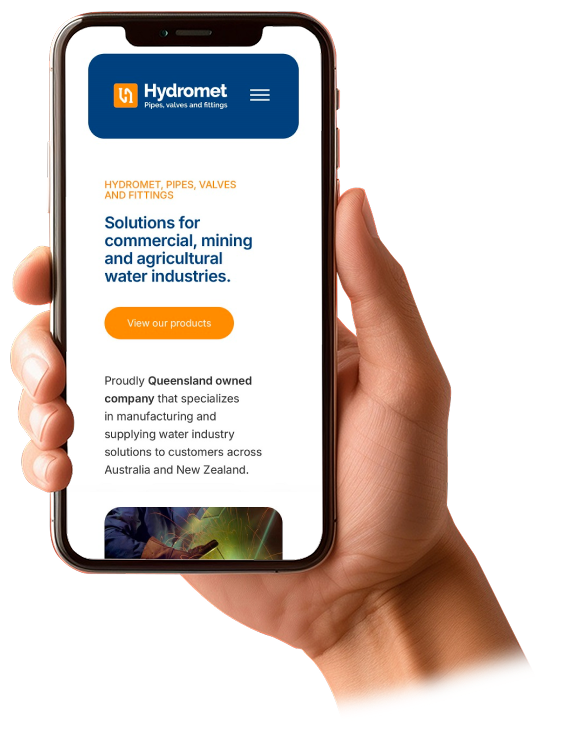
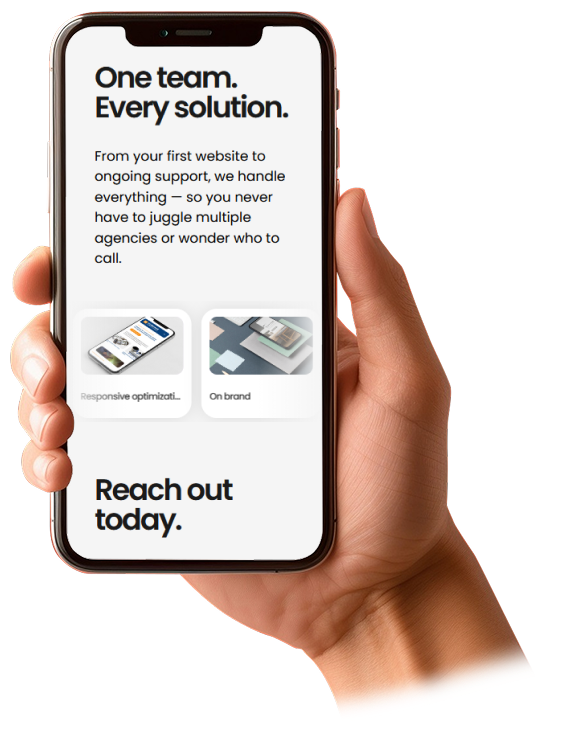
Updates

Changed region(s): [[0.1237, 0.4219, 0.5567, 0.7836], [0.1237, 0.0603, 0.5258, 0.3918]]

diff --git a/index.html b/index.html
@@ -49,8 +49,8 @@
         window.history.replaceState(null, "", finalPath);
       })();
     </script>
-    <script type="module" crossorigin src="/assets/index-CWYpzVCw.js"></script>
-    <link rel="stylesheet" crossorigin href="/assets/index-DQDPuU-o.css">
+    <script type="module" crossorigin src="/assets/index-iDpTRTmZ.js"></script>
+    <link rel="stylesheet" crossorigin href="/assets/index-3tq_7B_g.css">
   </head>
   <body>
     <div id="root"></div>

diff --git a/assets/index-3tq_7B_g.css b/assets/index-3tq_7B_g.css
@@ -1,0 +1,1 @@
+:root{--muted-mauve-grey:#6b6375;--near-black:#1a1a1a;--bg:#f5f5f5;--border:#e5e4e7;--code-bg:#f4f3ec;--lime-green:#d6fd70;--purple:#aa3bff;--purple-bg:#aa3bff1a;--purple-border:#aa3bff80;--social-bg:#f4f3ec80;--nav-width:160px;--btn-padding:14px 23px;--yellow-green:#9acd32;--base-white:#fff;--grey-200:#ececec;--grey-300:#c7c7c7;--grey-400:#585858;--grey-500:#474747;--grey-600:#363636;--grey-700:#2f2f2f;--grey-800:#1a1a1a;--btn-hover:#08060d;--shadow:#0000001a 0 10px 15px -3px, #0000000d 0 4px 6px -2px;--sitefont:"Poppins", "Segoe UI", Roboto, sans-serif;--sitewidth:1280px;--step--2:clamp(.56rem, .6076rem + -.0595vw, .6076rem);--step--1:clamp(.7rem, .7292rem + -.0365vw, .7292rem);--step-0:clamp(.875rem, .875rem + 0vw, .875rem);--step-1:clamp(1.05rem, 1.05rem + .0547vw, 1.0938rem);--step-2:clamp(1.26rem, 1.26rem + .134vw, 1.3672rem);--step-3:clamp(1.512rem, 1.512rem + .2462vw, 1.709rem);--step-4:clamp(1.8144rem, 1.8144rem + .4023vw, 2.1362rem);--step-5:clamp(2.1773rem, 2.1773rem + .6163vw, 2.6703rem);--step-6:clamp(2.6127rem, 2.6127rem + .9064vw, 3.3379rem);--step-7:clamp(3.1353rem, 3.1353rem + 1.2963vw, 4.1723rem);--step-8:clamp(3.7623rem, 3.7623rem + 1.8163vw, 5.2154rem);--step-9:clamp(4.5148rem, 4.5148rem + 2.5056vw, 6.5193rem);--azure-blue:#208dd2;--warm-peach:#ffae91;--blue-grey:#769ca9;--pale-orange:#ffa656;--golden-yellow:#dec63e;--hot-pink:#ff88c8}body{background-repeat:no-repeat;background-size:cover}#root{margin:20px;padding:20px;position:relative}#root .cover-bg{z-index:-1;border-radius:20px;width:100%;height:100%;max-height:880px;position:absolute;top:0;left:0}#root .app-main{width:100%;max-width:var(--sitewidth);margin-top:20px;margin-left:auto;margin-right:auto}.home-page .cover-bg{background-color:var(--azure-blue);background-image:url(/cover.jpg);background-position:50%;background-size:cover}.services-page .cover-bg,.logo-design-page .cover-bg,.photography-page .cover-bg{background-color:var(--warm-peach)}.projects-page .cover-bg{background-color:var(--blue-grey)}.about-page .cover-bg{background-color:var(--golden-yellow)}.pricing-page .cover-bg{background-color:var(--blue-grey)}.contact-page .cover-bg{background-color:var(--azure-blue)}html{-webkit-text-size-adjust:100%;-ms-text-size-adjust:100%;font-family:var(--sitefont);scrollbar-gutter:stable}body{font-size:var(--step-0);background:var(--bg);margin:0;padding:0;line-height:1.5}h1{font-size:var(--step-4);color:var(--near-black);letter-spacing:-2px;font-weight:600;line-height:1.5}h2{font-size:var(--step-3);color:var(--near-black);letter-spacing:-1px;font-weight:600;line-height:1.5}h3{font-size:var(--step-2);letter-spacing:-.5px;margin-top:20px;font-weight:600;line-height:1.5}h4{font-size:var(--step-1);margin-top:10px;font-weight:600;line-height:1.5}p{color:var(--near-black);letter-spacing:inherit;margin-top:0;margin-bottom:10px;line-height:1.6}h1.lg-heading{font-size:var(--step-7);line-height:.9}h1.med-heading{font-size:var(--step-5);line-height:1}button{font-family:var(--sitefont)}.mt0{margin-top:0}.mt10{margin-top:10px}.mt20{margin-top:20px}.mt30{margin-top:30px}.mt40{margin-top:40px}.mt50{margin-top:50px}.mt60{margin-top:60px}.mb0{margin-bottom:0}.mb10{margin-bottom:10px}.mb20{margin-bottom:20px}.mb30{margin-bottom:30px}.mb40{margin-bottom:40px}.mb50{margin-bottom:50px}.mb60{margin-bottom:60px}.pt0{padding-top:0}.pt10{padding-top:10px}.pt20{padding-top:20px}.pt30{padding-top:30px}.pt40{padding-top:40px}.pb0{padding-bottom:0}.pb10{padding-bottom:10px}.pb20{padding-bottom:20px}.pb30{padding-bottom:30px}.pb40{padding-bottom:40px}.fw400{font-weight:400}.displaynone{display:none!important}.opacity75{opacity:.75!important}.swiper-wrapper{transition-timing-function:linear!important}.btn{padding:var(--btn-padding);color:var(--base-white);background-color:var(--purple);text-align:center;border-radius:999px;text-decoration:none;transition:background-color .2s;display:inline-block}.btn:hover{background-color:var(--purple-border)}.hero-outer{background:#fff3;border:1px solid #ffffff4d;border-bottom:#0000;border-radius:38px 38px 0 0;width:fit-content;padding:20px}.hero-outer .hero-wrapper{border-radius:20px;max-width:900px;animation:1.2s hero-fade-in;display:block;position:relative;overflow:hidden}.hero-outer .hero-wrapper>img{width:100%;height:auto;display:block}.hero-outer .hero-wrapper canvas{image-rendering:auto;width:100%;height:100%;image-rendering:smooth;will-change:transform;backface-visibility:hidden;position:absolute;top:0;left:0;transform:translateZ(0)}.hero-outer .hero-wrapper .video-wrapper{object-fit:cover;position:absolute;overflow:hidden}.hero-outer .hero-wrapper .mix{mix-blend-mode:multiply;width:100%;height:auto;position:absolute;top:0;left:0}@keyframes hero-fade-in{0%{opacity:0}to{opacity:1}}.swiper{display:block;position:relative;overflow:hidden}.swiper-wrapper{width:100%;height:100%;transition:transform .3s;display:flex}.swiper-slide{flex-shrink:0;width:100%;height:100%}.swiper-wrapper-outer{box-sizing:border-box;background:#fff3;border:1px solid #ffffff4d;border-top:#0000;border-radius:0 0 30px 30px;margin-top:0;margin-bottom:30px;padding-bottom:20px}.swiper-wrapper-outer .swiper{width:100%;max-width:100vw}.swiper-wrapper-outer .swiper .swiper-wrapper .swiper-slide{border:2px solid #0000;border-radius:16px;position:relative}.swiper-wrapper-outer .swiper .swiper-wrapper .swiper-slide.active{border:2px solid var(--lime-green)}.swiper-wrapper-outer .swiper .swiper-wrapper .swiper-slide.active .badge{display:flex}.swiper-wrapper-outer .swiper .swiper-wrapper .swiper-slide .badge{z-index:10;border:2px solid var(--grey-800);border-radius:999px;width:18px;height:18px;display:none;position:absolute;top:4px;right:4px}.swiper-wrapper-outer .swiper .swiper-wrapper .swiper-slide .badge svg{width:100%;height:100%}.swiper-wrapper-outer .swiper .swiper-wrapper .swiper-slide .badge svg path{fill:var(--base-white)}.swiper-wrapper-outer .swiper .swiper-wrapper .swiper-slide .badge svg path:nth-child(2){fill:var(--grey-800)}.swiper-wrapper-outer .swiper .swiper-wrapper .swiper-slide .inner-slide{border-radius:14px;max-height:500px;position:relative;overflow:hidden}.swiper-wrapper-outer .swiper .swiper-wrapper .swiper-slide img{width:100%;height:auto;display:block}.swiper-wrapper-outer .swiper .swiper-wrapper .swiper-slide canvas{image-rendering:auto;width:100%;height:100%;image-rendering:smooth;will-change:transform;backface-visibility:hidden;position:absolute;top:0;left:0;transform:translateZ(0)}.swiper-wrapper-outer .swiper .swiper-wrapper .swiper-slide .video-wrapper{object-fit:cover;position:absolute;overflow:hidden}.swiper-wrapper-outer .swiper .swiper-wrapper .swiper-slide .video-wrapper .item-video-thumb{object-fit:cover;width:100%;height:100%;display:block}.swiper-wrapper-outer .swiper .swiper-wrapper .swiper-slide .video-wrapper .item-video{width:100%;height:100%}.swiper-wrapper-outer .swiper .swiper-wrapper .swiper-slide .mix{mix-blend-mode:multiply;width:100%;height:auto;position:absolute;top:0;left:0}.swiper-wrapper-outer .swiper .swiper-wrapper .swiper-slide:hover{cursor:pointer;border-color:var(--purple-border)}.swiper-wrapper-outer .swiper .swiper-button-next{border:2px solid var(--grey-800);background-color:var(--lime-green);border-radius:50%;width:48px;height:48px;display:none}.swiper-wrapper-outer .swiper .swiper-button-next.swiper-button-disabled{display:none}.swiper-wrapper-outer .swiper .swiper-button-next .swiper-navigation-icon{width:12px;height:12px}.swiper-wrapper-outer .swiper .swiper-button-next .swiper-navigation-icon path{stroke:var(--grey-800);stroke-width:2px}.swiper-wrapper-outer .swiper .swiper-button-next:hover{border-color:var(--lime-green);background-color:var(--grey-800)}.swiper-wrapper-outer .swiper .swiper-button-next:hover .swiper-navigation-icon path{stroke:var(--lime-green)}.swiper-wrapper-outer .swiper .swiper-button-prev{border:2px solid var(--grey-800);background-color:var(--lime-green);border-radius:50%;width:48px;height:48px;display:none}.swiper-wrapper-outer .swiper .swiper-button-prev.swiper-button-disabled{display:none}.swiper-wrapper-outer .swiper .swiper-button-prev .swiper-navigation-icon{width:12px;height:12px}.swiper-wrapper-outer .swiper .swiper-button-prev .swiper-navigation-icon path{stroke:var(--grey-800);stroke-width:2px}.swiper-wrapper-outer .swiper .swiper-button-prev:hover{border-color:var(--lime-green);background-color:var(--grey-800)}.swiper-wrapper-outer .swiper .swiper-button-prev:hover .swiper-navigation-icon path{stroke:var(--lime-green)}.tiles-wrapper .tiles{flex-wrap:wrap;justify-content:center;gap:2%;margin-top:20px;display:flex}.tiles-wrapper .tiles .tile-card{flex-basis:18%;margin-bottom:10px;transition:transform .2s;position:relative}.tiles-wrapper .tiles .tile-card.hideme{display:none}.tiles-wrapper .tiles .tile-card .popoverContainer{display:none;position:absolute;top:8px;right:8px}.tiles-wrapper .tiles .tile-card .popoverContainer .popoverBtn{color:var(--base-white);background-color:var(--grey-300);cursor:pointer;border:none;border-radius:999px;justify-content:center;align-items:center;width:20px;height:20px;padding:2px;transition:border-color .2s;display:flex}.tiles-wrapper .tiles .tile-card .popoverContainer .popoverBtn:hover{border-color:var(--purple-border);background-color:var(--grey-700)}.tiles-wrapper .tiles .tile-card .popoverContainer [popover]{inset:unset;left:anchor(left);top:anchor(bottom);position-try-fallbacks:--flip-horizontal;background:var(--base-white);border:1px solid var(--border);max-width:160px;box-shadow:var(--shadow);border-radius:12px;padding:12px 16px}.tiles-wrapper .tiles .tile-card .popoverContainer [popover] p{color:var(--muted-mauve-grey);font-size:var(--step--1);margin:0;line-height:1.6}.tiles-wrapper .tiles .tile-card:hover{transform:translateY(-2px)}.tiles-wrapper .tiles .tile-card:hover .popoverContainer,.tiles-wrapper .tiles .tile-card:hover .tile-info{display:block}.tiles-wrapper .tiles .tile-card .tile-info{padding:12px;display:block;position:absolute;bottom:0;left:0}.tiles-wrapper .tiles .tile-card .tile-info h3.name{font-size:var(--step-1);color:var(--muted-mauve-grey);margin:0 0 4px;display:none}.tiles-wrapper .tiles .tile-card .tile-info p.count{color:var(--grey-300);font-size:var(--step--1);border-radius:999px;justify-content:center;align-items:center;margin:0;padding:0 8px;display:flex}.tiles-wrapper .tiles .tile-card .tile{border:1px solid var(--border);background:var(--base-white);text-align:left;cursor:pointer;border-radius:14px;width:fit-content;padding:0;transition:border-color .2s,box-shadow .2s,transform .2s;overflow:hidden}.tiles-wrapper .tiles .tile-card .tile:hover{border-color:var(--purple-border)}.tiles-wrapper .tiles .tile-card .tile.active{border:2px solid var(--lime-green)}.tiles-wrapper .tiles .tile-card .tile.active .badge{display:block}.tiles-wrapper .tiles .tile-card .tile .tile-thumb{object-fit:cover;width:100%;height:auto;display:block}.tiles-wrapper .tiles .tile-card .tile .badge{border:2px solid var(--grey-800);z-index:10;border-radius:999px;width:16px;height:16px;display:none;position:absolute;top:4px;right:4px}.tiles-wrapper .tiles .tile-card .tile .badge svg path{fill:var(--base-white)}.tiles-wrapper .tiles .tile-card .tile .badge svg path:nth-child(2){fill:var(--grey-800)}.formwrapper{background:#fff3;border:1px solid #ffffff4d;border-radius:36px;padding:20px}.formwrapper form .formgroup{background-color:var(--base-white);border-radius:20px;flex-direction:column;gap:8px;padding:50px;display:flex}.formwrapper form .formgroup .form-label{color:var(--near-black);margin-top:20px;font-weight:600}.formwrapper form .formgroup .form-control{color:var(--muted-mauve-grey)!important}.formwrapper form .formgroup .form-control::placeholder{color:var(--muted-mauve-grey);opacity:.6}.formwrapper form .formgroup label{font-size:var(--step-1);color:var(--muted-mauve-grey)}.formwrapper form .formgroup input.form-control{color:var(--muted-mauve-grey)}.formwrapper form .formgroup input,.formwrapper form .formgroup textarea{color:var(--muted-mauve-grey);border:1px solid var(--border);background:var(--bg);font-size:var(--step--1);border-radius:30px;padding:20px;transition:border-color .2s,box-shadow .2s,transform .2s}.formwrapper form .formgroup input:focus,.formwrapper form .formgroup textarea:focus{border-color:var(--purple);box-shadow:0 0 0 3px var(--purple-bg);outline:none}.formwrapper form button{font-size:var(--step-0);padding:var(--btn-padding);width:fit-content;font-weight:400;font-family:var(--sitefont);cursor:pointer;background-color:var(--lime-green);color:var(--near-black);border:1px solid #0000;border-radius:999px;margin-top:20px;margin-left:auto;transition:background-color .2s}.formwrapper form button:hover{background-color:var(--btn-hover);color:var(--base-white)}.item-details .heading{margin-bottom:5px}.item-details .tag-list{flex-wrap:wrap;gap:8px;margin-top:30px;display:flex}.item-details .tag-list .tag-pill{font-size:var(--step--1);background-color:var(--base-white);color:var(--base-white);letter-spacing:.3px;background:#fff3;border:1px solid #ffffff40;border-radius:999px;justify-content:center;align-items:center;padding:10px 20px;display:flex}.spacer{height:60px}.horizontal-nav{width:100%;max-width:var(--sitewidth);justify-content:space-between;align-items:center;gap:20px;margin-left:auto;margin-right:auto;display:flex}.horizontal-nav .horizontal-nav-brand{gap:20px;display:flex}.horizontal-nav .horizontal-nav-links{padding:var(--btn-padding);background:#fff3;border:1px solid #ffffff4d;border-radius:999px;gap:20px;display:flex}.horizontal-nav .horizontal-nav-links .horizontal-nav-link{color:#fff;padding:var(--btn-padding);background:#fff3;border:1px solid #ffffff40;border-radius:999px;justify-content:center;align-items:center;text-decoration:none;display:flex}.horizontal-nav .horizontal-nav-links .horizontal-nav-link:hover,.horizontal-nav .horizontal-nav-links .horizontal-nav-link.active{background-color:var(--grey-800);border-color:var(--grey-800);color:var(--base-white)}.horizontal-nav .navBtn{padding:var(--btn-padding);background-color:var(--lime-green);color:var(--near-black);border:1px solid #0000;border-radius:999px;text-decoration:none;transition:border-color .2s,background-color .2s;display:flex}.horizontal-nav .navBtn:hover,.horizontal-nav .navBtn.active{background-color:var(--grey-800);border-color:var(--grey-800);color:var(--base-white)}.home-page .app-main{max-width:inherit!important}.home-page .app-main .hero-container{max-width:var(--sitewidth);margin-left:auto;margin-right:auto}.home-page .app-main .hero-container .heading h1{color:var(--base-white)}.home-page .app-main .hero-container .subheading h2{color:var(--base-white);line-height:1.2}.home-page .app-main .hero-container .cta .cta-wrapper{gap:20px;margin-bottom:40px;display:flex}.home-page .app-main .hero-container .cta .cta-wrapper .btn{background-color:var(--purple);color:var(--base-white)}.home-page .app-main .hero-container .cta .cta-wrapper .btn:hover{background-color:var(--btn-hover);color:var(--base-white)}.home-page .app-main .hero-container .cta .cta-wrapper .btn.contact-btn{background-color:var(--lime-green);color:var(--near-black)}.home-page .app-main .hero-container .cta .cta-wrapper .btn.contact-btn:hover{background-color:var(--near-black);color:var(--base-white)}.home-page .app-main .hero-container{grid-template:"heading stage".5fr"subheading stage".5fr"cta stage"1.4fr/1fr 1fr;grid-auto-flow:row;gap:0;display:grid}.home-page .app-main .heading{grid-area:heading}.home-page .app-main .subheading{grid-area:subheading}.home-page .app-main .cta{grid-area:cta}.home-page .app-main .stage{grid-area:stage}.home-page .app-main .hero{max-width:var(--sitewidth);gap:4px;margin-left:auto;margin-right:auto}.home-page .app-main .hero .hero-wrapper{gap:40px;width:100%;display:flex}.home-page .app-main .hero .hero-wrapper .col{flex-basis:50%}.home-page .app-main .hero .hero-wrapper h1{color:var(--base-white);letter-spacing:-2.5px}.home-page .app-main .hero .hero-wrapper h2{color:var(--base-white);line-height:1.2;font-size:var(--step-3);letter-spacing:-.5px}.home-page .app-main .hero .hero-wrapper p{color:var(--base-white);font-size:var(--step-1);line-height:1.5}.home-page .app-main .hero .cta-wrapper{gap:20px;margin-top:40px;display:flex}.home-page .app-main .hero .cta-wrapper .btn{background-color:var(--purple);color:var(--base-white)}.home-page .app-main .hero .cta-wrapper .btn:hover{background-color:var(--btn-hover);color:var(--base-white)}.home-page .app-main .hero .cta-wrapper .btn.contact-btn{background-color:var(--lime-green);color:var(--near-black)}.home-page .app-main .hero .cta-wrapper .btn.contact-btn:hover{background-color:var(--near-black);color:var(--base-white)}.home-page .app-main .featured{max-width:var(--sitewidth);margin-left:auto;margin-right:auto}.home-page .app-main .featured .controls{justify-content:flex-end;display:flex}.home-page .app-main .featured .controls button{cursor:pointer;background:0 0;border:none}.home-page .app-main .featured .controls button:hover svg rect{fill:var(--grey-800)}.home-page .app-main .featured .controls button:hover svg path{fill:var(--base-white)}.home-page .app-main .featured .tag-pill{font-size:var(--step-0);text-transform:uppercase;background-color:var(--base-white);padding:var(--btn-padding);border:1px solid var(--border);letter-spacing:.3px;border-radius:999px;justify-content:center;align-items:center;width:fit-content;display:flex}.home-page .app-main .featured-swiper .section-inner{margin-left:-40px;position:relative}.home-page .app-main .featured-swiper .section-inner .swiper{width:calc(100vw - 20px)}.home-page .app-main .featured-swiper .section-inner .swiper .swiper-slide .container{background-color:var(--base-white);border-radius:20px;padding:20px;box-shadow:0 0 20px #0000001a}.home-page .app-main .featured-swiper .section-inner .swiper .swiper-slide .container .content{background-color:var(--purple-bg);background-position:50%;background-size:cover;border-radius:10px;overflow:hidden}.home-page .app-main .featured-swiper .section-inner .swiper .swiper-slide .container .content img{width:100%;height:auto;margin-left:auto;margin-right:auto;display:block}.home-page .app-main .featured-swiper .section-inner .swiper .swiper-slide .container .content .video{width:100%;height:auto;display:block}.home-page .app-main .featured-swiper .section-inner .swiper .swiper-slide .container .description{margin-top:20px}.home-page .app-main .featured-swiper .section-inner .swiper .swiper-slide .container .description h3{color:var(--grey-600);white-space:nowrap;text-overflow:ellipsis;margin-bottom:10px;font-weight:500;line-height:1.2;overflow:hidden}.home-page .app-main .featured-swiper .section-inner .gradient{z-index:2;background-image:linear-gradient(90deg, var(--bg) 0%, transparent 100%);width:100%;max-width:80px;height:100%;position:absolute;top:0%;bottom:0%;left:0%}.home-page .app-main .featured-swiper .section-inner .gradient.right{left:unset;background-image:linear-gradient(270deg, var(--bg) 0%, transparent 100%);right:0%}.home-page .app-main .home-contact{max-width:var(--sitewidth);z-index:1;gap:10px;margin-top:40px;margin-left:auto;margin-right:auto;position:relative}.home-page .app-main .home-contact .formwrapper{z-index:1;width:100%;margin-left:auto;margin-right:auto;position:relative}.home-page .site-footer{margin-top:-300px;padding-top:360px}.projects-page img.cover-bg,.projects-two-page img.cover-bg{max-height:1024px!important}.contact-page img.cover-bg{max-height:1007px!important}section{gap:40px;width:100%;display:flex}section .col{flex-basis:50%}section .col.left{flex:1}section .col.left>.med-heading{color:var(--base-white)}section .col.left>h2{line-height:1.1}section .col.left>.lg-heading{color:var(--base-white)}section .col.right{flex-basis:942px}section.contact{gap:80px;padding-bottom:40px}.partners-section{margin-top:30px}.partners-section .partners-inner{background-color:var(--base-white);border:1px solid #[phone redacted];border-radius:20px;width:100%;padding:20px}.partners-section .partners-inner .row{justify-content:center}.partners-section .partners-inner .row h3{text-align:center;margin:10px 0}.filters{padding:var(--btn-padding);background-color:var(--base-white);border:1px solid var(--grey-200);border-radius:999px;flex-wrap:wrap;justify-content:center;gap:10px;width:fit-content;margin:10px auto 4px;display:flex}.filters .filter-button{font-size:var(--step-0);padding:var(--btn-padding);color:var(--base-white);background-color:var(--blue-grey);border:1px solid var(--blue-grey);cursor:pointer;border-radius:999px}.filters .filter-button:hover,.filters .filter-button.active{background-color:var(--grey-800);border-color:var(--grey-800);color:var(--base-white)}.mobile-nav{z-index:10000;background-color:#0000;border-radius:20px;height:60px;padding:20px;transition:all .3s;display:none;position:absolute;top:0;left:0;right:0}.mobile-nav .mobile-nav-inner{justify-content:space-between;align-items:center;display:flex}.mobile-nav .mobile-nav-inner .horizontal-nav-brand.mobile img{width:100%;max-width:175px;height:auto;display:block}.mobile-nav .mobile-nav-inner .menu-toggle{color:var(--base-white);font-size:var(--step-1);cursor:pointer;background:0 0;border:none;display:flex}.mobile-nav .mobile-nav-inner .menu-toggle img{width:32px;height:32px}.mobile-nav .mobile-menu{height:inherit;flex-direction:column;gap:16px;margin-top:20px;display:none}.mobile-nav .mobile-menu a{font-size:var(--step-1);color:var(--lime-green);text-align:right;text-decoration:none}.mobile-nav .mobile-menu.open{display:flex}.mobile-nav .mobile-menu .contactBtn{background-color:var(--lime-green);color:var(--near-black);padding:var(--btn-padding);border:none;border-radius:999px;width:fit-content;margin-left:auto}.mobile-nav .mobile-menu .contactBtn:hover{background-color:var(--near-black);color:var(--base-white)}.mobile-nav:has(.mobile-menu.open){background-color:var(--grey-800);height:90vh}.privacy-page section.privacy{padding-bottom:40px}.logo-design-page .hero-outer{border-bottom-right-radius:0;border-bottom-left-radius:0}.services-page .hero-wrapper{max-height:inherit}.services-page .hero-outer .swiper,.photography-page .hero-outer .swiper{border-radius:20px;width:100%;max-width:900px}.services-page .hero-outer .swiper .swiper-wrapper .swiper-slide,.photography-page .hero-outer .swiper .swiper-wrapper .swiper-slide{cursor:pointer}.services-page .hero-outer .swiper .swiper-wrapper .swiper-slide img,.photography-page .hero-outer .swiper .swiper-wrapper .swiper-slide img{width:100%;height:auto;display:block}.services-page .hero-outer .swiper.swiperOne,.photography-page .hero-outer .swiper.swiperOne{margin-top:0}.services-page .hero-outer .swiper.swiperOneThumbs,.photography-page .hero-outer .swiper.swiperOneThumbs{border-radius:10px;margin-top:10px}.services-page .hero-outer .swiper.swiperOneThumbs .swiper-wrapper .swiper-slide,.photography-page .hero-outer .swiper.swiperOneThumbs .swiper-wrapper .swiper-slide{border-radius:10px;overflow:hidden}.services-page .hero-outer .swiper .swiper-button-prev,.photography-page .hero-outer .swiper .swiper-button-prev{border:2px solid var(--grey-800);background-color:var(--lime-green);border-radius:50%;width:48px;height:48px}.services-page .hero-outer .swiper .swiper-button-prev .swiper-navigation-icon,.photography-page .hero-outer .swiper .swiper-button-prev .swiper-navigation-icon{width:12px;height:12px}.services-page .hero-outer .swiper .swiper-button-prev .swiper-navigation-icon path,.photography-page .hero-outer .swiper .swiper-button-prev .swiper-navigation-icon path{stroke:var(--muted-mauve-grey);stroke-width:2px}.services-page .hero-outer .swiper .swiper-button-prev:hover,.photography-page .hero-outer .swiper .swiper-button-prev:hover{border-color:var(--lime-green);background-color:var(--grey-800)}.services-page .hero-outer .swiper .swiper-button-prev:hover .swiper-navigation-icon path,.photography-page .hero-outer .swiper .swiper-button-prev:hover .swiper-navigation-icon path{stroke:var(--lime-green)}.services-page .hero-outer .swiper .swiper-button-prev.swiper-button-disabled,.photography-page .hero-outer .swiper .swiper-button-prev.swiper-button-disabled{opacity:0}.services-page .hero-outer .swiper .swiper-button-next,.photography-page .hero-outer .swiper .swiper-button-next{border:2px solid var(--grey-800);background-color:var(--lime-green);border-radius:50%;width:48px;height:48px}.services-page .hero-outer .swiper .swiper-button-next .swiper-navigation-icon,.photography-page .hero-outer .swiper .swiper-button-next .swiper-navigation-icon{width:12px;height:12px}.services-page .hero-outer .swiper .swiper-button-next .swiper-navigation-icon path,.photography-page .hero-outer .swiper .swiper-button-next .swiper-navigation-icon path{stroke:var(--muted-mauve-grey);stroke-width:2px}.services-page .hero-outer .swiper .swiper-button-next:hover,.photography-page .hero-outer .swiper .swiper-button-next:hover{border-color:var(--lime-green);background-color:var(--grey-800)}.services-page .hero-outer .swiper .swiper-button-next:hover .swiper-navigation-icon path,.photography-page .hero-outer .swiper .swiper-button-next:hover .swiper-navigation-icon path{stroke:var(--lime-green)}.services-page .hero-outer .swiper .swiper-button-next.swiper-button-disabled,.photography-page .hero-outer .swiper .swiper-button-next.swiper-button-disabled{opacity:0}.services-list{flex-direction:column;justify-content:center;gap:10px;width:fit-content;margin-top:30px;display:flex}.services-list .service-btn{padding:var(--btn-padding);color:var(--near-black);background-color:var(--lime-green);border:1px solid var(--lime-green);cursor:pointer;border-radius:999px;justify-content:center;align-items:center;text-decoration:none;display:flex}.services-list .service-btn:hover{background-color:var(--grey-800);border-color:var(--grey-800);color:var(--lime-green)}.services-list .service-btn.active{background-color:var(--grey-800);border-color:var(--grey-800);color:var(--base-white)}.site-footer{min-height:500px;color:var(--muted-mauve-grey);background-color:var(--grey-800);border-radius:20px;margin-top:60px;margin-left:-20px;margin-right:-20px;padding:60px;position:relative;overflow:hidden}.site-footer .footer-icon{border-bottom-right-radius:20px;width:100%;position:absolute;bottom:0;right:0;overflow:hidden}.site-footer .site-footer-inner{width:100%;max-width:var(--sitewidth);flex-wrap:wrap;justify-content:space-between;gap:40px;margin-left:auto;margin-right:auto;display:flex;position:relative}.site-footer .site-footer-inner .site-footer-links{flex-direction:column;gap:20px;display:flex}.site-footer .site-footer-inner .site-footer-links .site-footer-link .footer-link-prefix{background-color:var(--lime-green);border-radius:999px;width:14px;height:14px;margin-right:14px;display:inline-block}.site-footer .site-footer-inner .site-footer-links a{align-items:center;display:flex}.site-footer .site-footer-inner .site-footer-links a:hover .footer-link-prefix{background-color:var(--base-white)}.site-footer .site-footer-inner a{color:var(--lime-green);text-decoration:none}.site-footer .site-footer-inner .site-footer-brand-wrap img{width:100%;max-width:265px}.below-footer{justify-content:center;margin-top:-24px;display:flex}.below-footer .scroll-to-top{cursor:pointer;z-index:10;background-color:#0000;border:none;position:relative}.below-footer .scroll-to-top svg rect{fill:var(--lime-green)}.below-footer .scroll-to-top svg path{fill:var(--near-black)}.below-footer .scroll-to-top:hover svg rect{fill:var(--purple)}.stage{width:fit-content;margin-top:40px;margin-left:auto;margin-right:auto;position:relative}.stage .stage-img-01{width:100%;max-width:582px;height:auto;display:block}.stage .stage-img-02,.stage .stage-img-03,.stage .stage-img-04{width:40vw;height:auto;display:block;position:absolute}.stage .stage-img-02{max-width:320px;top:26%;left:-3%}.stage .stage-img-03{max-width:262px;top:10%;left:40%}.stage .stage-img-04{max-width:262px;top:60%;left:42%}.row{flex-direction:row;justify-content:center;gap:20px;width:100%;display:flex}.pricing-page .pricing-wrapper{background:#fff3;border:1px solid #ffffff4d;border-radius:38px;width:fit-content;padding:20px}.pricing-page .pricing-wrapper .pricing-section .row .col .left{flex:0 auto}.pricing-page .pricing-wrapper .pricing-section .row.item-title{align-items:center}.pricing-page .pricing-wrapper .pricing-section .row.price{flex-direction:column;gap:0}.pricing-page .pricing-wrapper .pricing-section .row.price h2{margin:0}.pricing-page .pricing-wrapper .pricing-section .row.price p{color:var(--muted-mauve-grey);margin:0}.pricing-page .pricing-wrapper .pricing-section p.details{margin-top:20px}.pricing-page .pricing-wrapper .pricing-section ul.features{color:var(--muted-mauve-grey);flex-direction:column;gap:10px;margin-top:20px;padding-left:0;display:flex}.pricing-page .pricing-wrapper .pricing-section ul.features li{background-image:url(/badge-tick-002.svg);background-repeat:no-repeat;background-size:20px;padding-left:34px;display:flex}.pricing-page .pricing-wrapper .pricing-section .card{background-color:var(--base-white);border-radius:20px;padding:20px}.pricing-page .pricing-wrapper .pricing-section .card .description{color:var(--muted-mauve-grey)}.pricing-page .pricing-wrapper .pricing-section .card.recommended{background-color:var(--lime-green)}.pricing-page .btn{cursor:pointer;font-size:var(--step-0);padding:var(--btn-padding);width:fit-content;font-weight:400;font-family:var(--sitefont);background-color:var(--lime-green);color:var(--near-black);border:1px solid #0000;border-radius:999px;margin-top:20px;transition:background-color .2s}.pricing-page .btn:hover{background-color:var(--near-black);color:var(--base-white)}.pricing-page .disclaimer{margin-top:60px;margin-bottom:60px}.loader{z-index:9999;background:#fff;place-items:center;display:grid;position:fixed;inset:0}@media (width<=1170px){.horizontal-nav{display:none}.mobile-nav{display:block}#root .app-main section{margin-top:40px}}@media (width<=800px){section{flex-direction:column}.section-inner,.swiper-wrapper-outer{background:0 0;border:#0000;padding:0}.swiper-wrapper{margin-top:10px}.swiper-wrapper .badge{width:12px!important;height:12px!important}.tag-list,.services-list{display:none!important}.home-page .hero-wrapper{flex-direction:column}.home-page .swiper .container .description h3{font-size:var(--step--1)}.home-page .swiper .container .description p{display:none}.home-page section.featured h4{margin:0}.home-page section.featured h1{margin:0 0 30px}.home-page .formwrapper{padding:0}.home-page .formwrapper .formgroup{padding:20px}.home-page .formwrapper .formgroup .contact-btn{width:100%}.home-page section.featured-swiper{margin-top:20px}.home-page section.featured-swiper .swiper-slide .container{padding:10px!important}.home-page .cta-wrapper{flex-direction:column}.home-page .section-inner .swiper{width:100vw!important}.home-page .section-inner .gradient.right{right:-40px!important}.row{flex-direction:column}.col.right{flex:1!important}.site-footer{min-height:408px;padding:30px}.hero-outer{border-radius:13px;padding:4px}.hero-outer .hero-wrapper{border-radius:10px;max-width:calc(100vw - 80px)}.swiper-wrapper-outer .swiper{width:calc(100vw - 80px)}.swiper-wrapper-outer .swiper .swiper-wrapper .swiper-slide{border-radius:6px}.swiper-wrapper-outer .swiper .swiper-wrapper .swiper-slide .inner-slide{border-radius:5px}.projects-page .projects-hero{gap:0}.projects-page .partners-section{margin-top:10px;padding:0}.projects-page .partners-inner{gap:0;padding:0}.projects-page .partners-inner .row .col.right{flex-basis:100%}.projects-page .partners-inner .row .filters{border-radius:20px;margin-top:10px}.projects-page .partners-inner .row .filters .filter-button{font-size:var(--step--2)}.projects-page .partners-inner .tiles-wrapper .tiles{gap:12px;padding:0 10px}.projects-page .partners-inner .tiles-wrapper .tiles .tile-card{flex-basis:47%}.projects-page .partners-inner .tiles-wrapper .tiles .tile-card .tile-info{display:none}.contact-page .formwrapper{background:0 0;border:none;border-radius:0;padding:0}.contact-page .formwrapper .formgroup{border-radius:26px;padding:20px}.contact-page .formwrapper .formgroup .contact-btn{width:100%}.hero-container{grid-template:"heading""stage""subheading""cta"/1fr!important}.hero-container .lg-heading{margin-top:10px}.hero-container .stage{margin-top:0}}